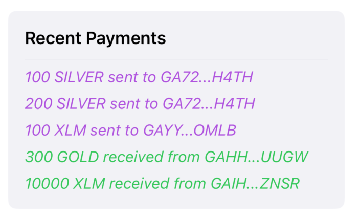
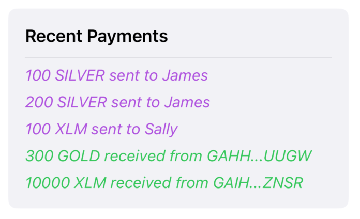
feat(payments): set contact names to recent payments

diff --git a/SwiftBasicPay/Model/DashboardData.swift b/SwiftBasicPay/Model/DashboardData.swift
@@ -97,7 +97,11 @@ class DashboardData: ObservableObject {
                 return
             }
             let loadedPayments = try await StellarService.loadRecentPayments(address: userAddress)
-            // TODO: set contact names
+            for payment in loadedPayments {
+                if let contact = userContacts.filter({$0.accountId == payment.address}).first {
+                    payment.contactName = contact.name
+                }
+            }
             Task { @MainActor in
                 self.recentPaymentsLoadingError = nil
                 self.recentPayments = loadedPayments

diff --git a/SwiftBasicPay/View/Overview.swift b/SwiftBasicPay/View/Overview.swift
@@ -36,10 +36,10 @@ struct Overview: View {
             }
         }.onAppear() {
             Task {
-                await dashboardData.fetchStellarData()
                 if (dashboardData.userContacts.isEmpty) {
                     await dashboardData.loadUserContacts()
                 }
+                await dashboardData.fetchStellarData()
             }
         }
     }

diff --git a/SwiftBasicPay/services/StellarService.swift b/SwiftBasicPay/services/StellarService.swift
@@ -365,7 +365,7 @@ public class PaymentInfo: Hashable, Identifiable {
     let amount:String
     let direction:PaymentDirection
     let address:String
-    let contactName:String?
+    var contactName:String?
     
     internal init(asset: StellarAssetId, amount: String, direction: PaymentDirection, address: String, contactName: String? = nil) {
         self.asset = asset
